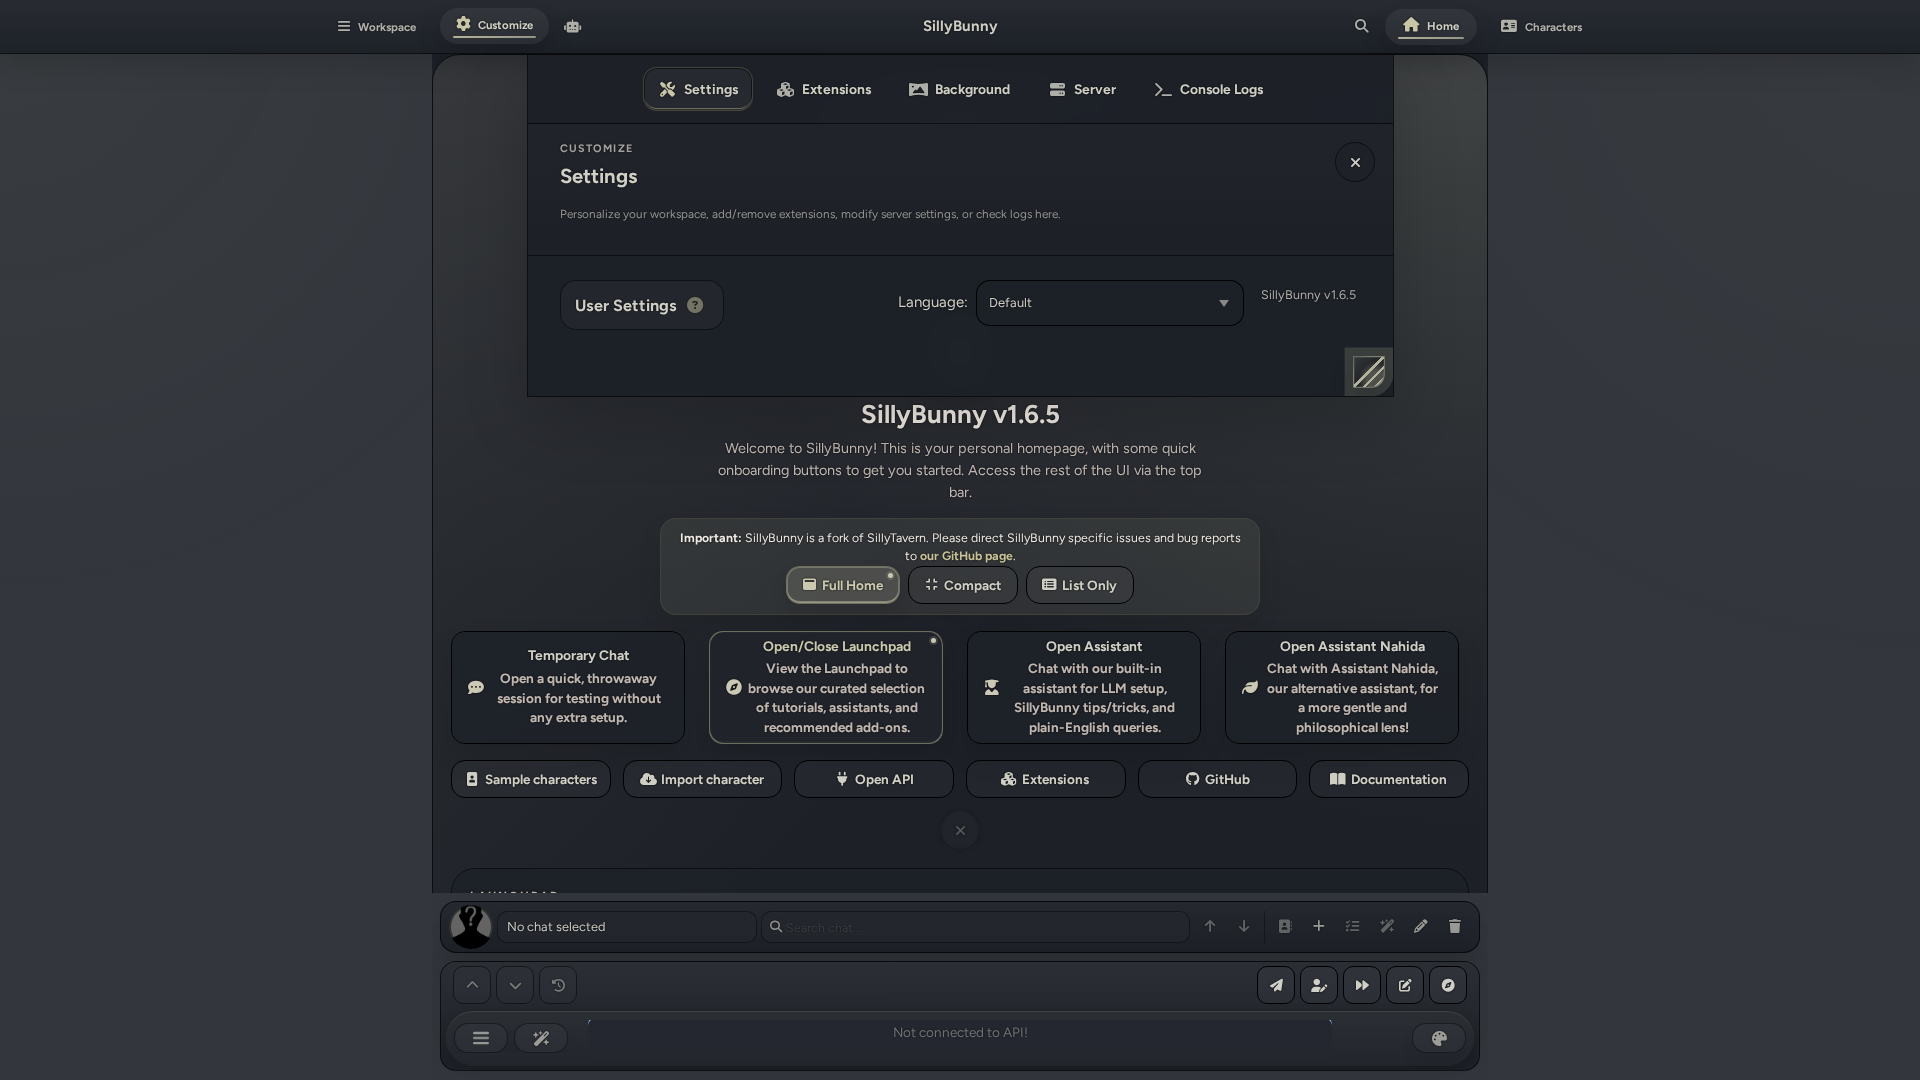
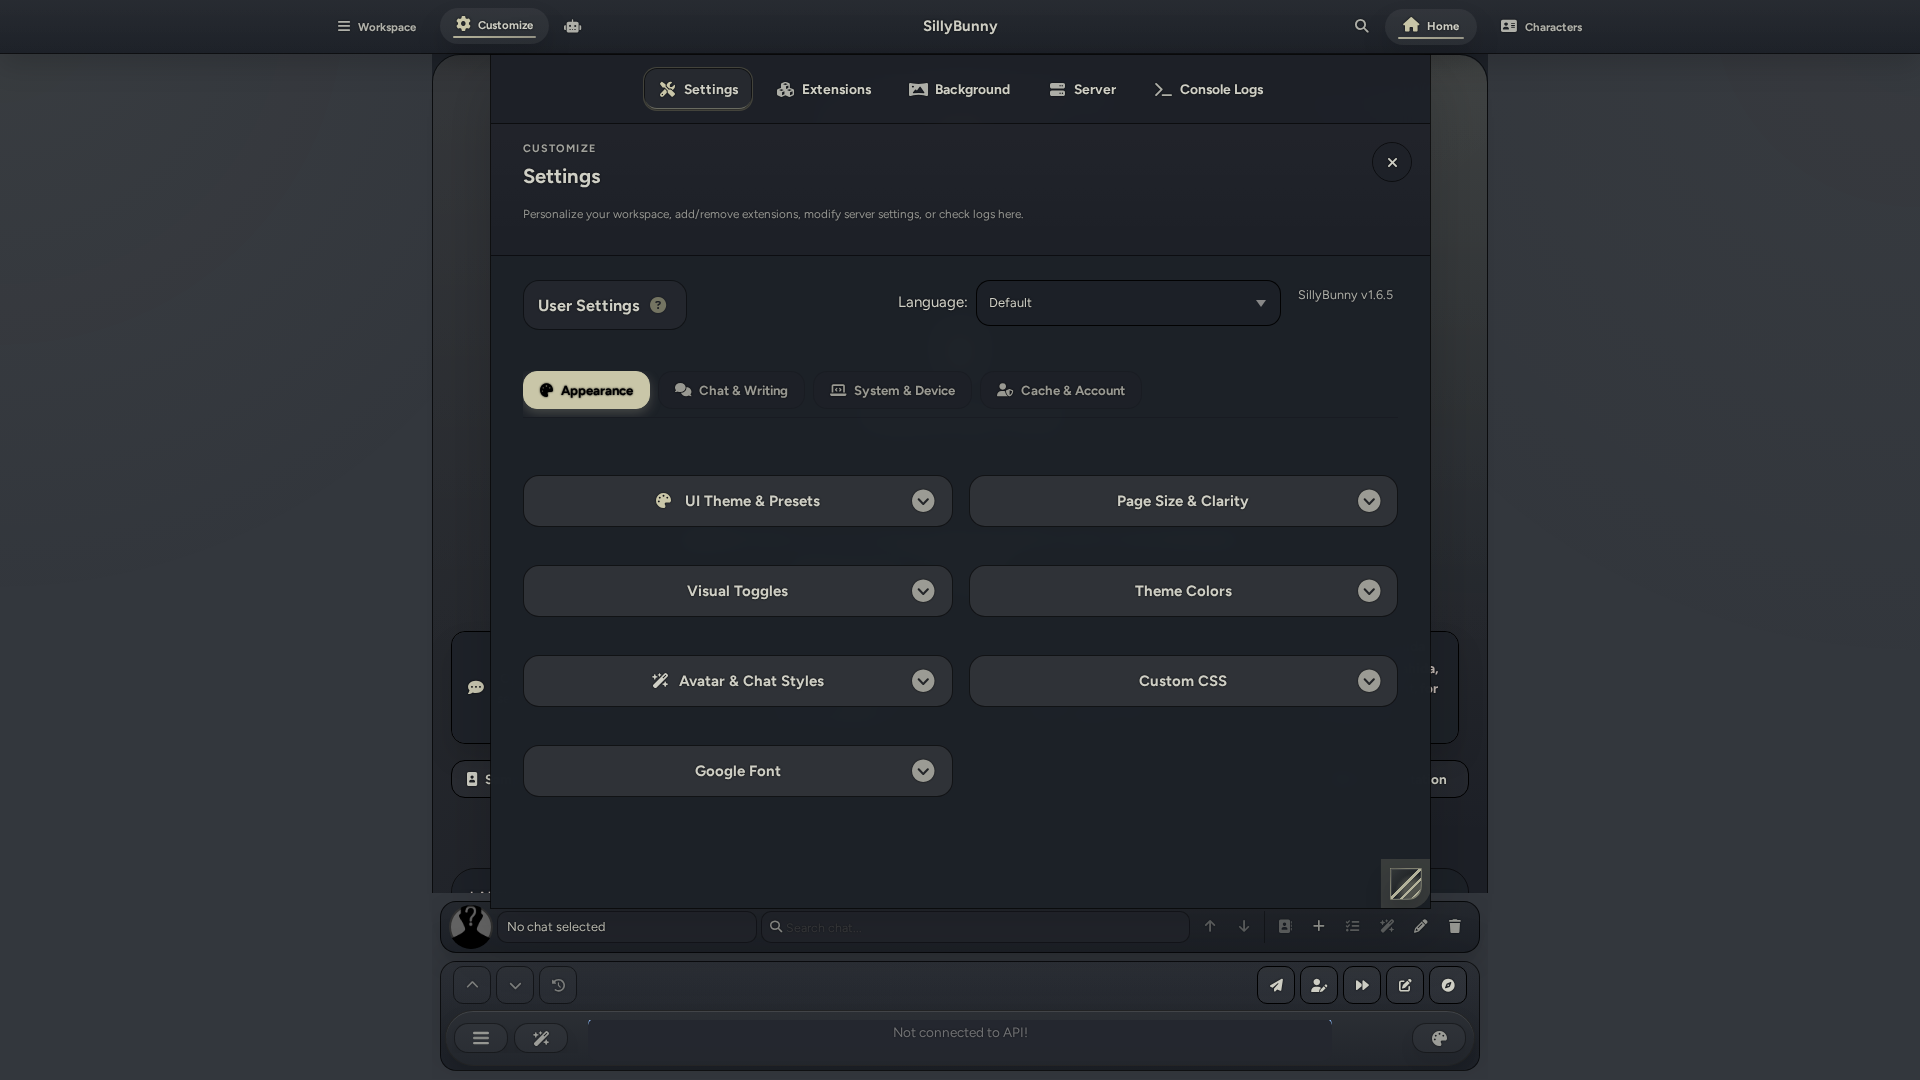
style(screenshots): refresh desktop screenshots with manual drawer sizes

diff --git a/tests/capture-screenshots.js b/tests/capture-screenshots.js
@@ -205,29 +205,6 @@ async function captureScreenshots(viewportType) {
         await page.waitForTimeout(6000);
         await dismissOnboardingIfPresent(page);
 
-        if (viewportType === 'desktop') {
-            console.log('   Overriding desktop shell dimensions to maximize drawer view...');
-            await page.evaluate(() => {
-                const style = document.createElement('style');
-                style.innerHTML = `
-                    #left-nav-panel.openDrawer,
-                    #user-settings-block.openDrawer {
-                        width: 900px !important;
-                        max-width: 900px !important;
-                        height: 950px !important;
-                        max-height: 950px !important;
-                    }
-                    #right-nav-panel.openDrawer {
-                        width: 450px !important;
-                        max-width: 450px !important;
-                        height: 950px !important;
-                        max-height: 950px !important;
-                    }
-                `;
-                document.head.appendChild(style);
-            });
-        }
-
         // Capture each section
         for (const section of sections) {
             const filename = `sillybunny-ui-${viewportType}-${section.name}-v${version}.png`;
